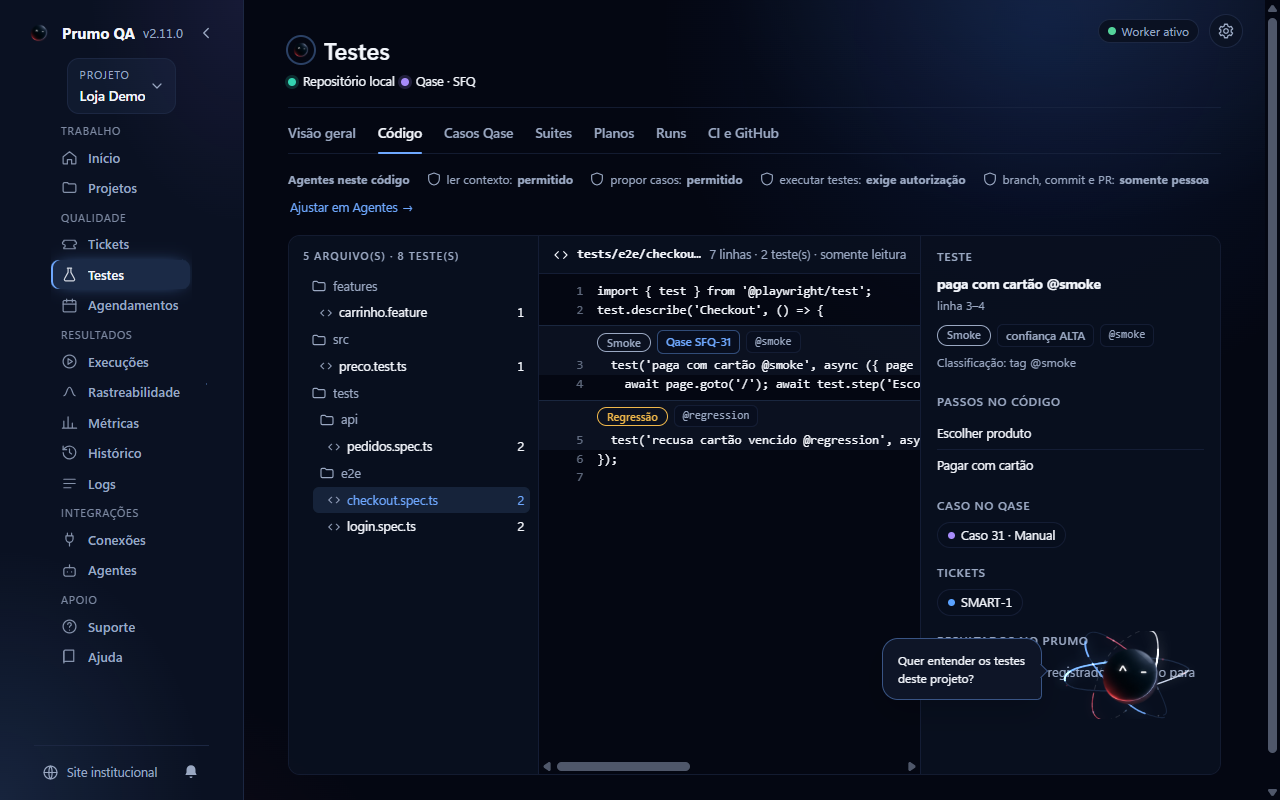
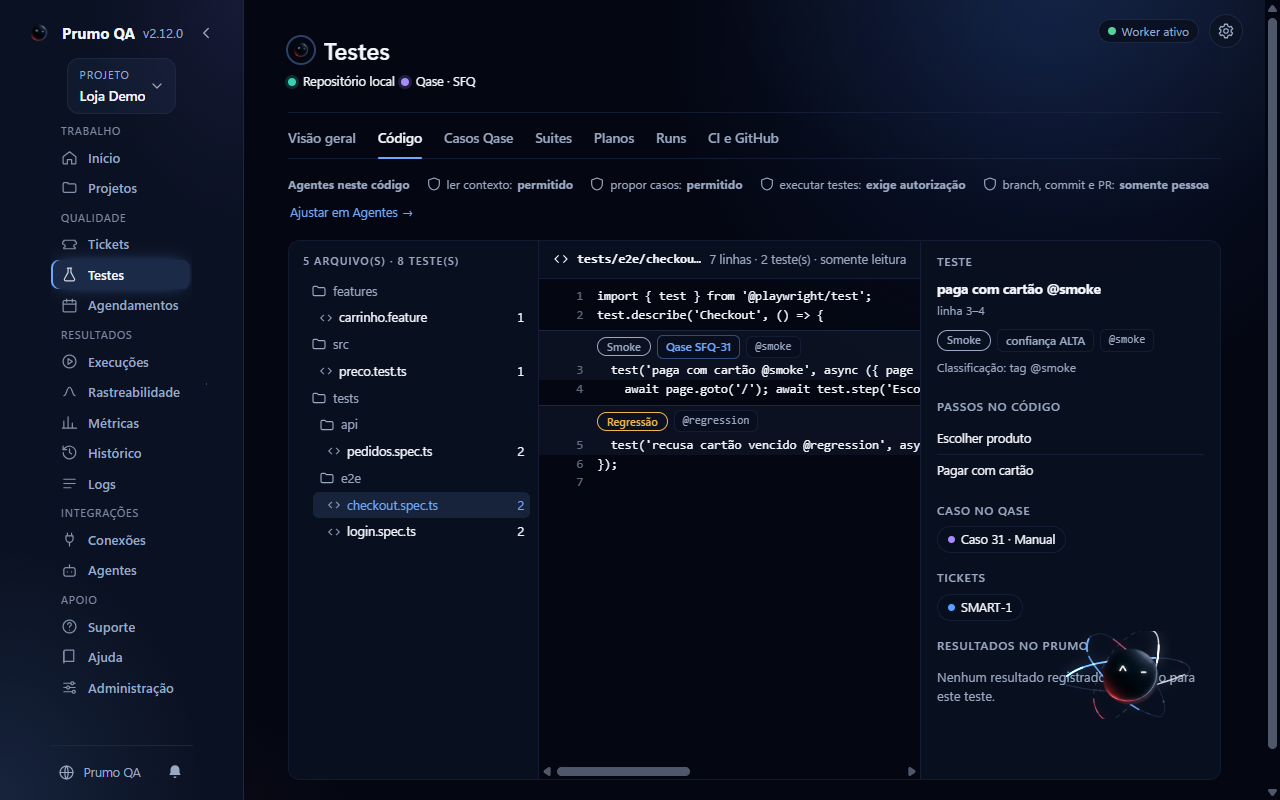
docs(2.12.0): Ajuda de acesso e permissões (PT/EN), Documentação viva com código, segurança do login e capturas do site

diff --git a/backend/projetos/tipos/painel.ts b/backend/projetos/tipos/painel.ts
@@ -18,4 +18,4 @@ export const filtroSchema = z.object({
 export type Filtro = z.input<typeof filtroSchema>;
 
 /** Documentos da Ajuda: lista fixa, lidos da pasta do aplicativo. O nome nunca vem da interface em formato livre. */
-export const documentosAjuda = ['01-o-que-e.md', '02-como-funciona.md', '03-instalar.md', '04-vincular.md', '17-plataforma.md', '18-agendamentos.md', '18-agendamentos.en.md', '19-testes-e-integracoes.md', '19-testes-e-integracoes.en.md', '20-assistente-e-agentes.md', '20-assistente-e-agentes.en.md', 'SERVICOS.md', '15-contextos.md', '16-suporte.md', '05-conectar-ia.md', '06-sem-ia-e-com-ia.md', '07-resultados.md', '08-metricas-e-logs.md', '09-problemas.md', '10-perguntas.md', '11-privacidade.md', '12-seguranca.md', '13-termos.md', '14-sobre.md'] as const;
+export const documentosAjuda = ['01-o-que-e.md', '02-como-funciona.md', '03-instalar.md', '04-vincular.md', '17-plataforma.md', '18-agendamentos.md', '18-agendamentos.en.md', '19-testes-e-integracoes.md', '19-testes-e-integracoes.en.md', '20-assistente-e-agentes.md', '20-assistente-e-agentes.en.md', '21-acesso-e-permissoes.md', '21-acesso-e-permissoes.en.md', 'SERVICOS.md', '15-contextos.md', '16-suporte.md', '05-conectar-ia.md', '06-sem-ia-e-com-ia.md', '07-resultados.md', '08-metricas-e-logs.md', '09-problemas.md', '10-perguntas.md', '11-privacidade.md', '12-seguranca.md', '13-termos.md', '14-sobre.md'] as const;

diff --git a/frontend/ajuda/mostrarAjuda.js b/frontend/ajuda/mostrarAjuda.js
@@ -7,7 +7,7 @@
     ['Fluxos de qualidade', ['15-contextos', '19-testes-e-integracoes', '18-agendamentos', '07-resultados', '08-metricas-e-logs']],
     ['IA e agentes', ['20-assistente-e-agentes', '05-conectar-ia', '06-sem-ia-e-com-ia']],
     ['Suporte', ['09-problemas', '10-perguntas', '16-suporte']],
-    ['Segurança e dados', ['12-seguranca', '11-privacidade', 'dados', '13-termos']],
+    ['Segurança e dados', ['21-acesso-e-permissoes', '12-seguranca', '11-privacidade', 'dados', '13-termos']],
     ['Referência técnica', ['versoes', 'atualizacoes', 'integracoes', '14-sobre']]
   ];
   const normal = (s) => String(s || '').normalize('NFD').replace(/[̀-ͯ]/g, '').toLowerCase();

diff --git a/docs/ajuda/21-acesso-e-permissoes.md b/docs/ajuda/21-acesso-e-permissoes.md
@@ -1,0 +1,33 @@
+# Acesso, usuários e permissões
+
+O Prumo funciona com a conta do Windows deste computador. Se várias pessoas usam o mesmo computador, ou se você quer limitar o que cada uma faz, ligue o **login** em **Administração › Usuários**.
+
+## Ligar o login
+
+1. Abra **Administração › Usuários** e clique em **Ativar login**.
+2. Crie a primeira conta: ela é sempre de **Administrador**. O usuário tem de 3 a 40 caracteres (letras minúsculas, números, ponto, hífen ou sublinhado) e a senha, pelo menos 10 caracteres, misturando letras e números.
+3. Guarde o **código de recuperação** que aparece uma única vez, fora deste computador.
+
+Daí em diante a janela pede login antes de mostrar qualquer tela. Sem login ligado, nada muda: todas as telas ficam liberadas, como antes.
+
+## Papéis e permissões
+
+Cada pessoa tem um **papel**, e cada papel tem um nível por tela: **Sem acesso** (a tela some do menu e o backend recusa os pedidos dela), **Ver** (consulta sem alterar) ou **Usar** (consulta e altera). O papel Administrador é fixo; você cria os outros em **Administração › Permissões**, começando de um papel existente.
+
+A conferência é feita no processo principal a cada pedido, não só na janela: esconder um botão não é a autorização.
+
+## Contas
+
+- O administrador cria contas, aprova cadastros, troca o papel, desativa, desbloqueia e exclui. Ao criar uma conta ou redefinir uma senha, o Prumo mostra uma **senha temporária** uma única vez; a pessoa define a própria senha no primeiro acesso.
+- Em **Configurações gerais** você decide se o cadastro pela tela de entrada fica aberto, se precisa de aprovação, qual papel os novos cadastros recebem, o tempo de inatividade e quantas tentativas erradas bloqueiam a conta.
+- Quem esquece a senha usa o código de recuperação; sem ele, a Administração redefine a senha.
+- O último administrador não pode ser excluído nem rebaixado, e ninguém vira administrador pelo cadastro.
+- Cada pessoa pode trocar o próprio nome e a senha em **Minha conta**, no canto da janela.
+
+## O que o login não faz
+
+O login controla o que cada pessoa vê e altera **no aplicativo**. O worker de agendamentos, a bandeja e o servidor MCP continuam rodando com a conta do Windows deste computador, e a confirmação nativa do Windows para executar e publicar continua obrigatória. Os dados de projetos e integrações continuam locais por conta do Windows: o login não isola pessoas que usam a mesma conta do Windows.
+
+## Agentes da plataforma
+
+Em **Administração › Agentes**, quem tem permissão liga ou desliga cada agente para todos os projetos, o uso de Claude Code ou Codex e a orquestração. Essas regras valem por cima das políticas de cada projeto (tela Agentes).

diff --git a/docs/ajuda/21-acesso-e-permissoes.en.md b/docs/ajuda/21-acesso-e-permissoes.en.md
@@ -1,0 +1,33 @@
+# Access, users and permissions
+
+Prumo works with this computer's Windows account. If several people share the computer, or you want to limit what each one does, turn **login** on in **Administration › Users**.
+
+## Turn login on
+
+1. Open **Administration › Users** and click **Turn on login**.
+2. Create the first account: it is always an **Administrator**. The username has 3 to 40 characters (lowercase letters, numbers, dot, hyphen or underscore) and the password at least 10 characters, mixing letters and numbers.
+3. Keep the **recovery code**, shown only once, outside this computer.
+
+From then on the window asks for login before showing any screen. With login off nothing changes: every screen stays open, as before.
+
+## Roles and permissions
+
+Each person has a **role**, and each role has a level per screen: **No access** (the screen disappears from the menu and the backend refuses its requests), **View** (read without changing) or **Use** (read and change). The Administrator role is fixed; you create the others in **Administration › Permissions**, starting from an existing role.
+
+Checks run in the main process on every request, not only in the window: hiding a button is not authorization.
+
+## Accounts
+
+- The administrator creates accounts, approves registrations, changes the role, deactivates, unlocks and deletes. When an account is created or a password reset, Prumo shows a **temporary password** only once; the person sets their own password on first sign-in.
+- In **General settings** you choose whether registration from the sign-in screen is open, whether it needs approval, which role new registrations get, the inactivity time and how many wrong attempts lock the account.
+- Whoever forgets the password uses the recovery code; without it, Administration resets the password.
+- The last administrator cannot be deleted or demoted, and nobody becomes an administrator by registering.
+- Each person can change their own name and password in **My account**, in the window corner.
+
+## What login does not do
+
+Login controls what each person sees and changes **in the application**. The schedule worker, the tray and the MCP server keep running with this computer's Windows account, and the native Windows confirmation to run and publish is still required. Project and integration data stay local per Windows account: login does not isolate people who share the same Windows account.
+
+## Platform agents
+
+In **Administration › Agents**, whoever has permission turns each agent on or off for all projects, the use of Claude Code or Codex, and orchestration. These rules apply on top of each project's policies (Agents screen).

diff --git a/docs/SEGURANCA.md b/docs/SEGURANCA.md
@@ -1,5 +1,14 @@
 # Segurança e limites de confiança
 
+## Login local e permissões (2.12)
+
+- **Desligado por padrão.** Sem login ligado, o Prumo usa a conta do Windows e nada muda. Ligar o login cria `acessos.json` na pasta `plataforma` dos dados, separado de `contas.json` (contas de serviço Jira/Qase/GitHub).
+- **Senhas e códigos** nunca ficam em texto: só resumo scrypt com sal próprio. A senha temporária e o código de recuperação aparecem uma única vez. Respostas, logs e diagnóstico nunca os contêm; erro de login não diz se o usuário existe.
+- **Sessão** só na memória do processo principal, com expiração por inatividade e bloqueio da conta após tentativas erradas (ambos configuráveis). Nada de token no renderer.
+- **Autorização no backend:** `registrarCanal` confere, a cada pedido, a sessão e o nível (Sem acesso, Ver, Usar) do papel na tela do canal (`backend/administracao/tipos/acessoDosCanais.ts`). Esconder item de menu não é a autorização. Todo canal novo precisa de uma regra ali (o compilador recusa o contrário).
+- **Papéis:** o Administrador é fixo; o cadastro público nunca cria administrador; o último administrador não pode ser excluído nem rebaixado; alterar o papel ou desativar uma conta vale no próximo pedido da pessoa.
+- **Limites:** o worker, a bandeja e o servidor MCP seguem com a conta do Windows e as políticas de cada projeto; a confirmação nativa para executar e publicar continua obrigatória. O login não isola dados de quem compartilha a mesma conta do Windows.
+
 ## Refatoração da branch em desenvolvimento
 
 Os handlers IPC exigem o `webContents` da janela principal registrada, seu frame principal e a URL exata de `index.html`. Abrir uma cópia da mesma página em outra janela não concede acesso aos canais. Argumentos continuam sujeitos aos esquemas; esta alteração não concede capacidades novas.

diff --git a/docs/ajuda/14-sobre.md b/docs/ajuda/14-sobre.md
@@ -8,4 +8,4 @@ Documentação completa: README e pasta docs do repositório.
 
 ## Administração › Documentação viva
 
-A tela **Administração** mostra como esta versão do Prumo é organizada, gerada do próprio código no build: para cada tela do menu, os arquivos da interface (`frontend/<tela>`), os canais da janela, o backend (`backend/<tela>`: canais, regras, dados deste computador, integrações e tipos) e os testes que a exercitam. Procure pelo nome de uma tela, de um arquivo, de uma função ou de um canal. O mapa não traz código-fonte nem dados seus. Em **Sistema** ficam a versão e o commit do build.
+Em **Administração › Documentação viva** você explora o código desta versão do Prumo, gerado do próprio código no build. À esquerda, a árvore de arquivos; no meio, o **fluxo da tela** (tela → canal da janela → API → regras → dados), com a opção de ver o caminho de um arquivo ou a tela inteira; à direita, o **código do arquivo escolhido** com a explicação do que ele faz, o papel na arquitetura, as funções, os canais e quem o usa. Procure pelo nome de uma tela, de um arquivo, de uma função ou de um canal. A mesma pasta existe em `frontend/<tela>` e `backend/<tela>`. Nada é executado e nada sai deste computador: o código mostrado é o que foi gravado no build.
